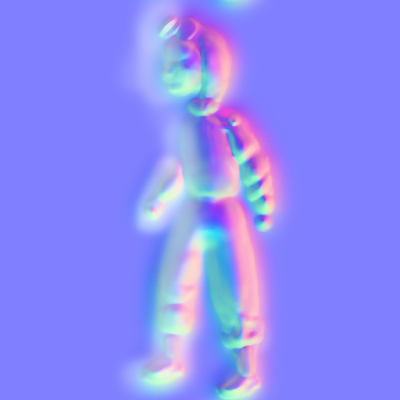
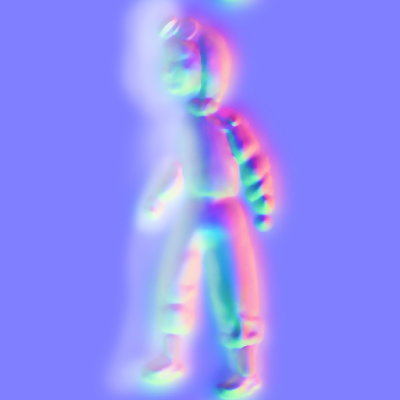
Lighting test w depth map embedded in alpha channel of normalmap

diff --git a/projects/tpv2/tests/lightingtest.html b/projects/tpv2/tests/lightingtest.html
@@ -46,19 +46,19 @@
           z: 200
         })
 
-        base.addEventListener('mousemove', function(e){
+        window.addEventListener('mousemove', function(e){
           ctx.drawImage(baseImage,0,0);
           var lightPosition = new Vec3D({
             // transpose so 0 in in center, not upper-left corner
             x: e.clientX,
             y: e.clientY,
-            z: 100
+            z: 300
           });
           normalMap(canvas, ctx, normals, depth, lightPosition, lightColor);
         });
       };
 
-      normalmapImg.src = '../assets/normalheightmap.png';
+      normalmapImg.src = '../assets/normaldepthmap.png';
     </script>
 
 

diff --git a/projects/tpv2/systems/graphics/dynamic-lighting/normalmap-engine.js b/projects/tpv2/systems/graphics/dynamic-lighting/normalmap-engine.js
@@ -18,7 +18,7 @@ function getNormalsFromImg(img){
       z: normalsData[i+2]
     });
     normals.push(normal.unit());
-    depthData.push(400 / normalsData[i+4]);
+    depthData.push(normalsData[i+4] / 4);
   }
   return [normals, depthData];
 }
